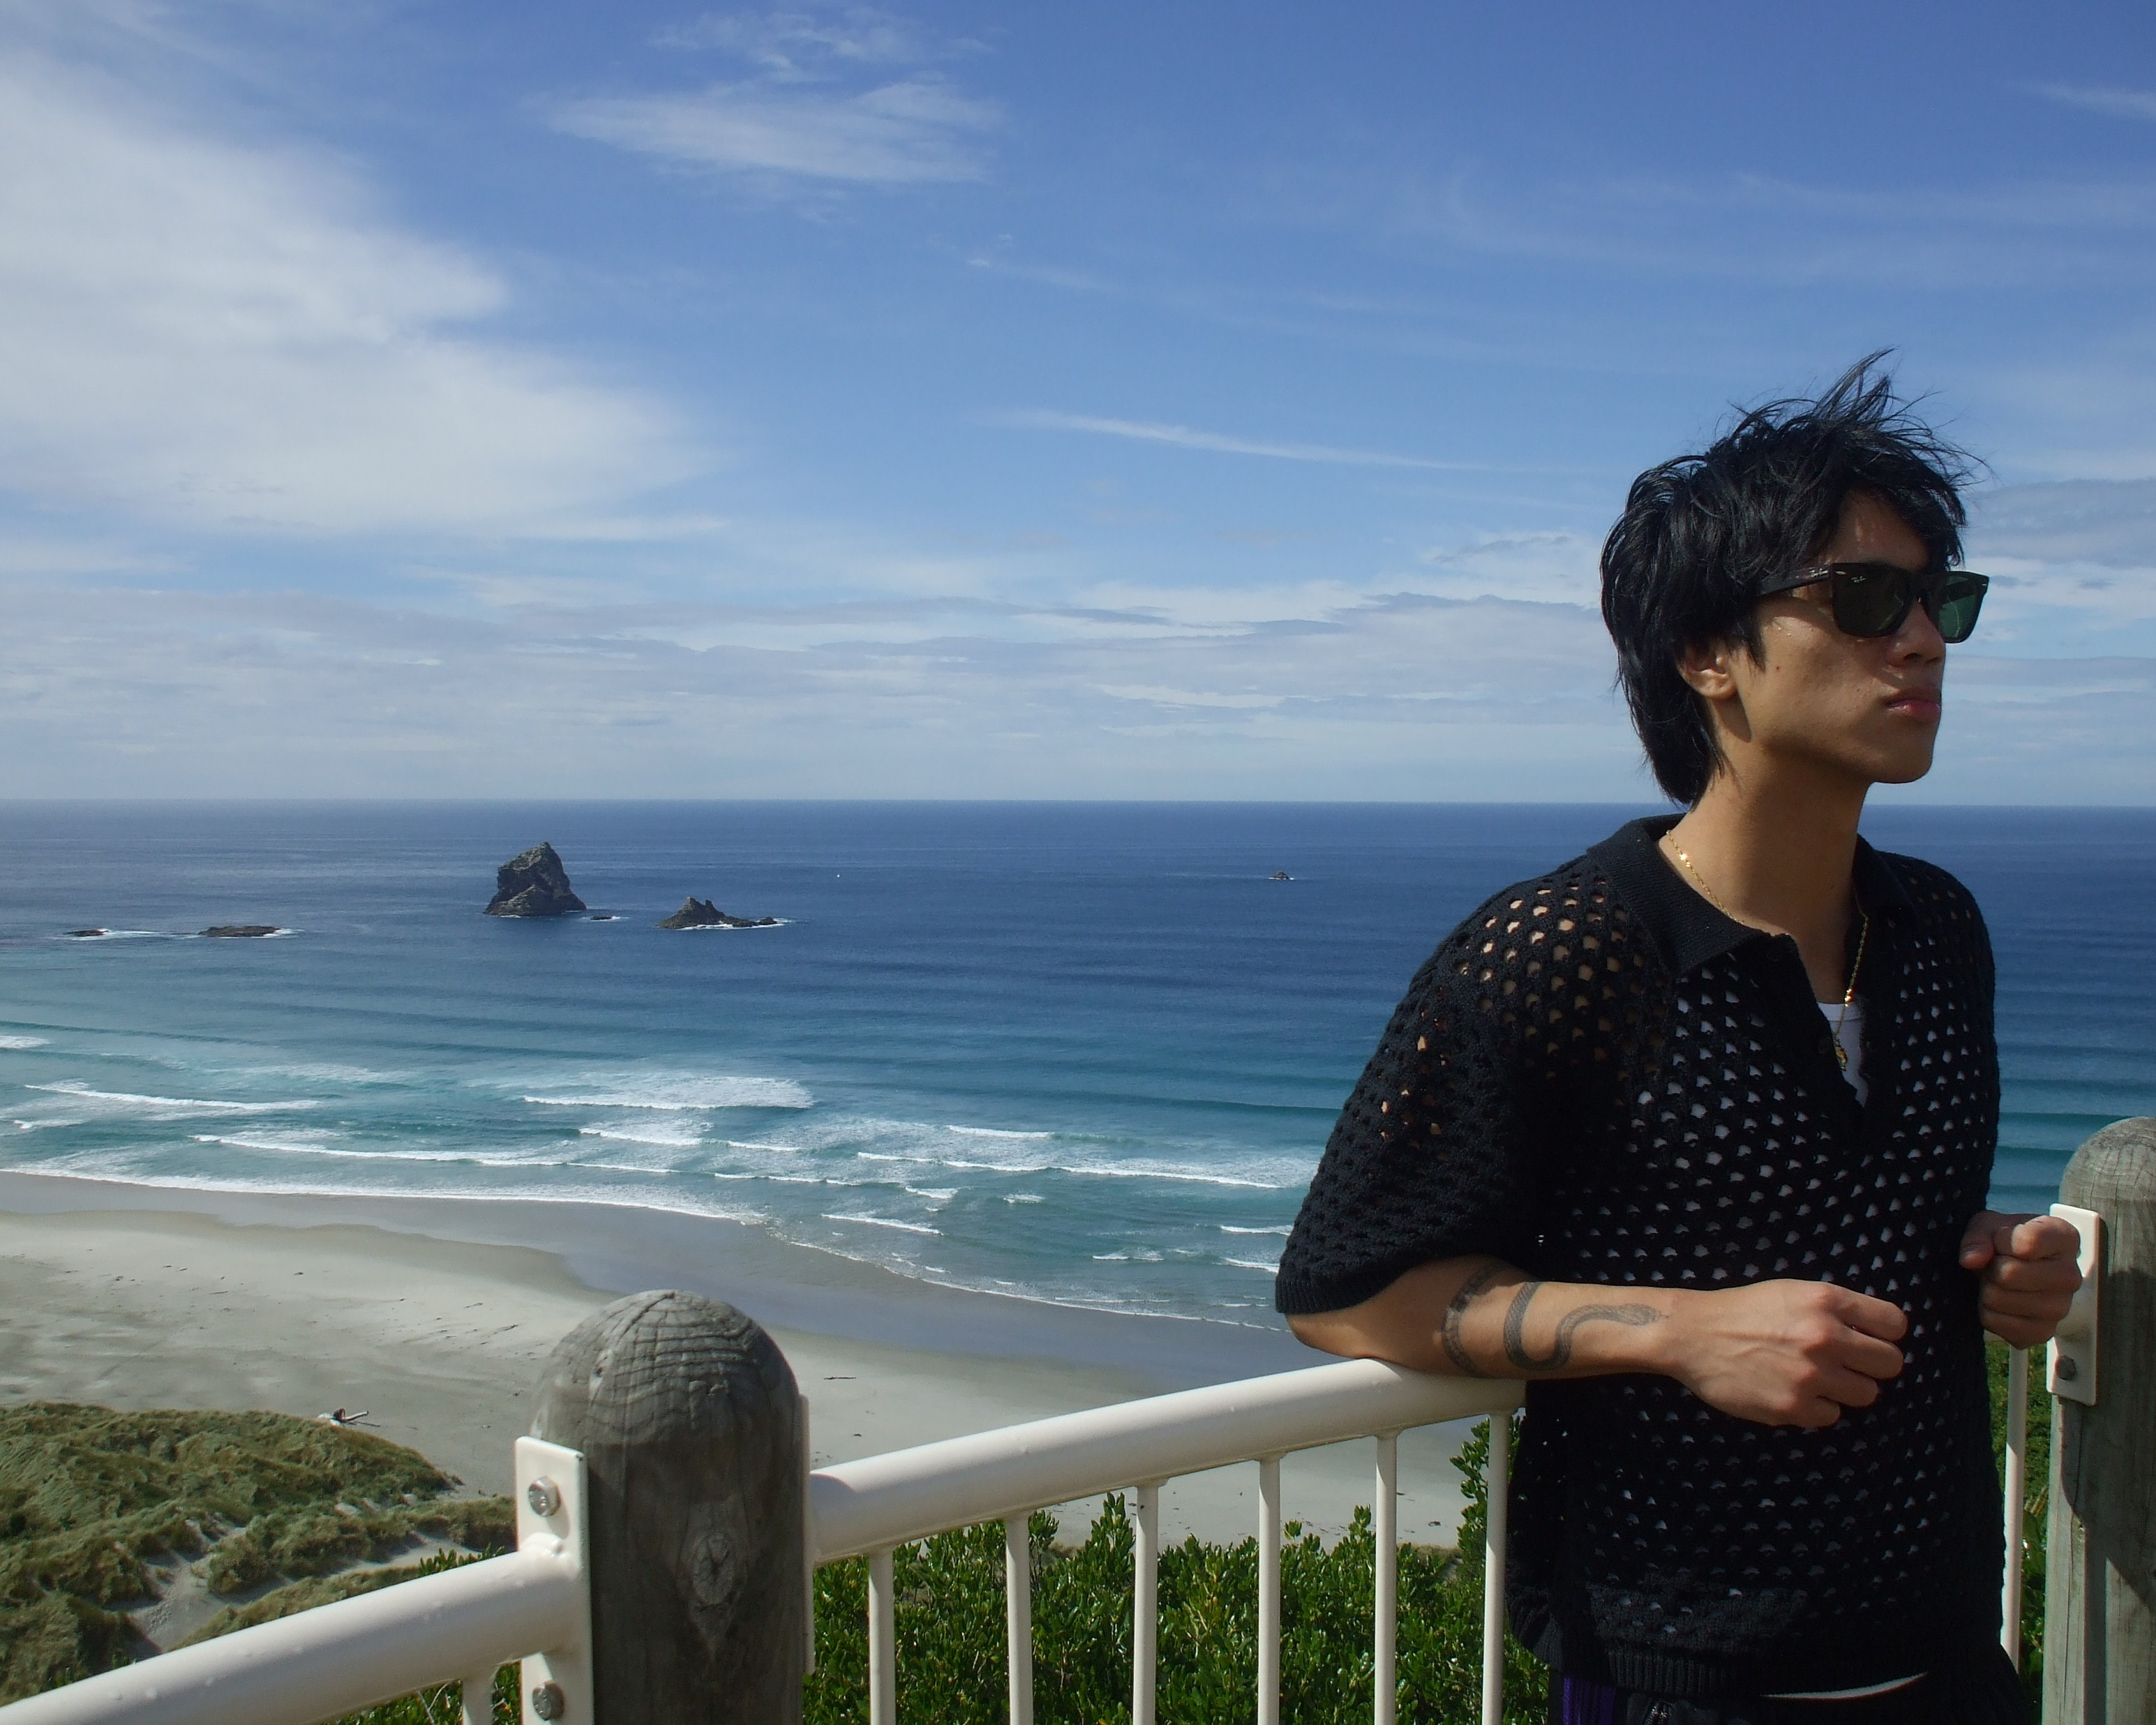
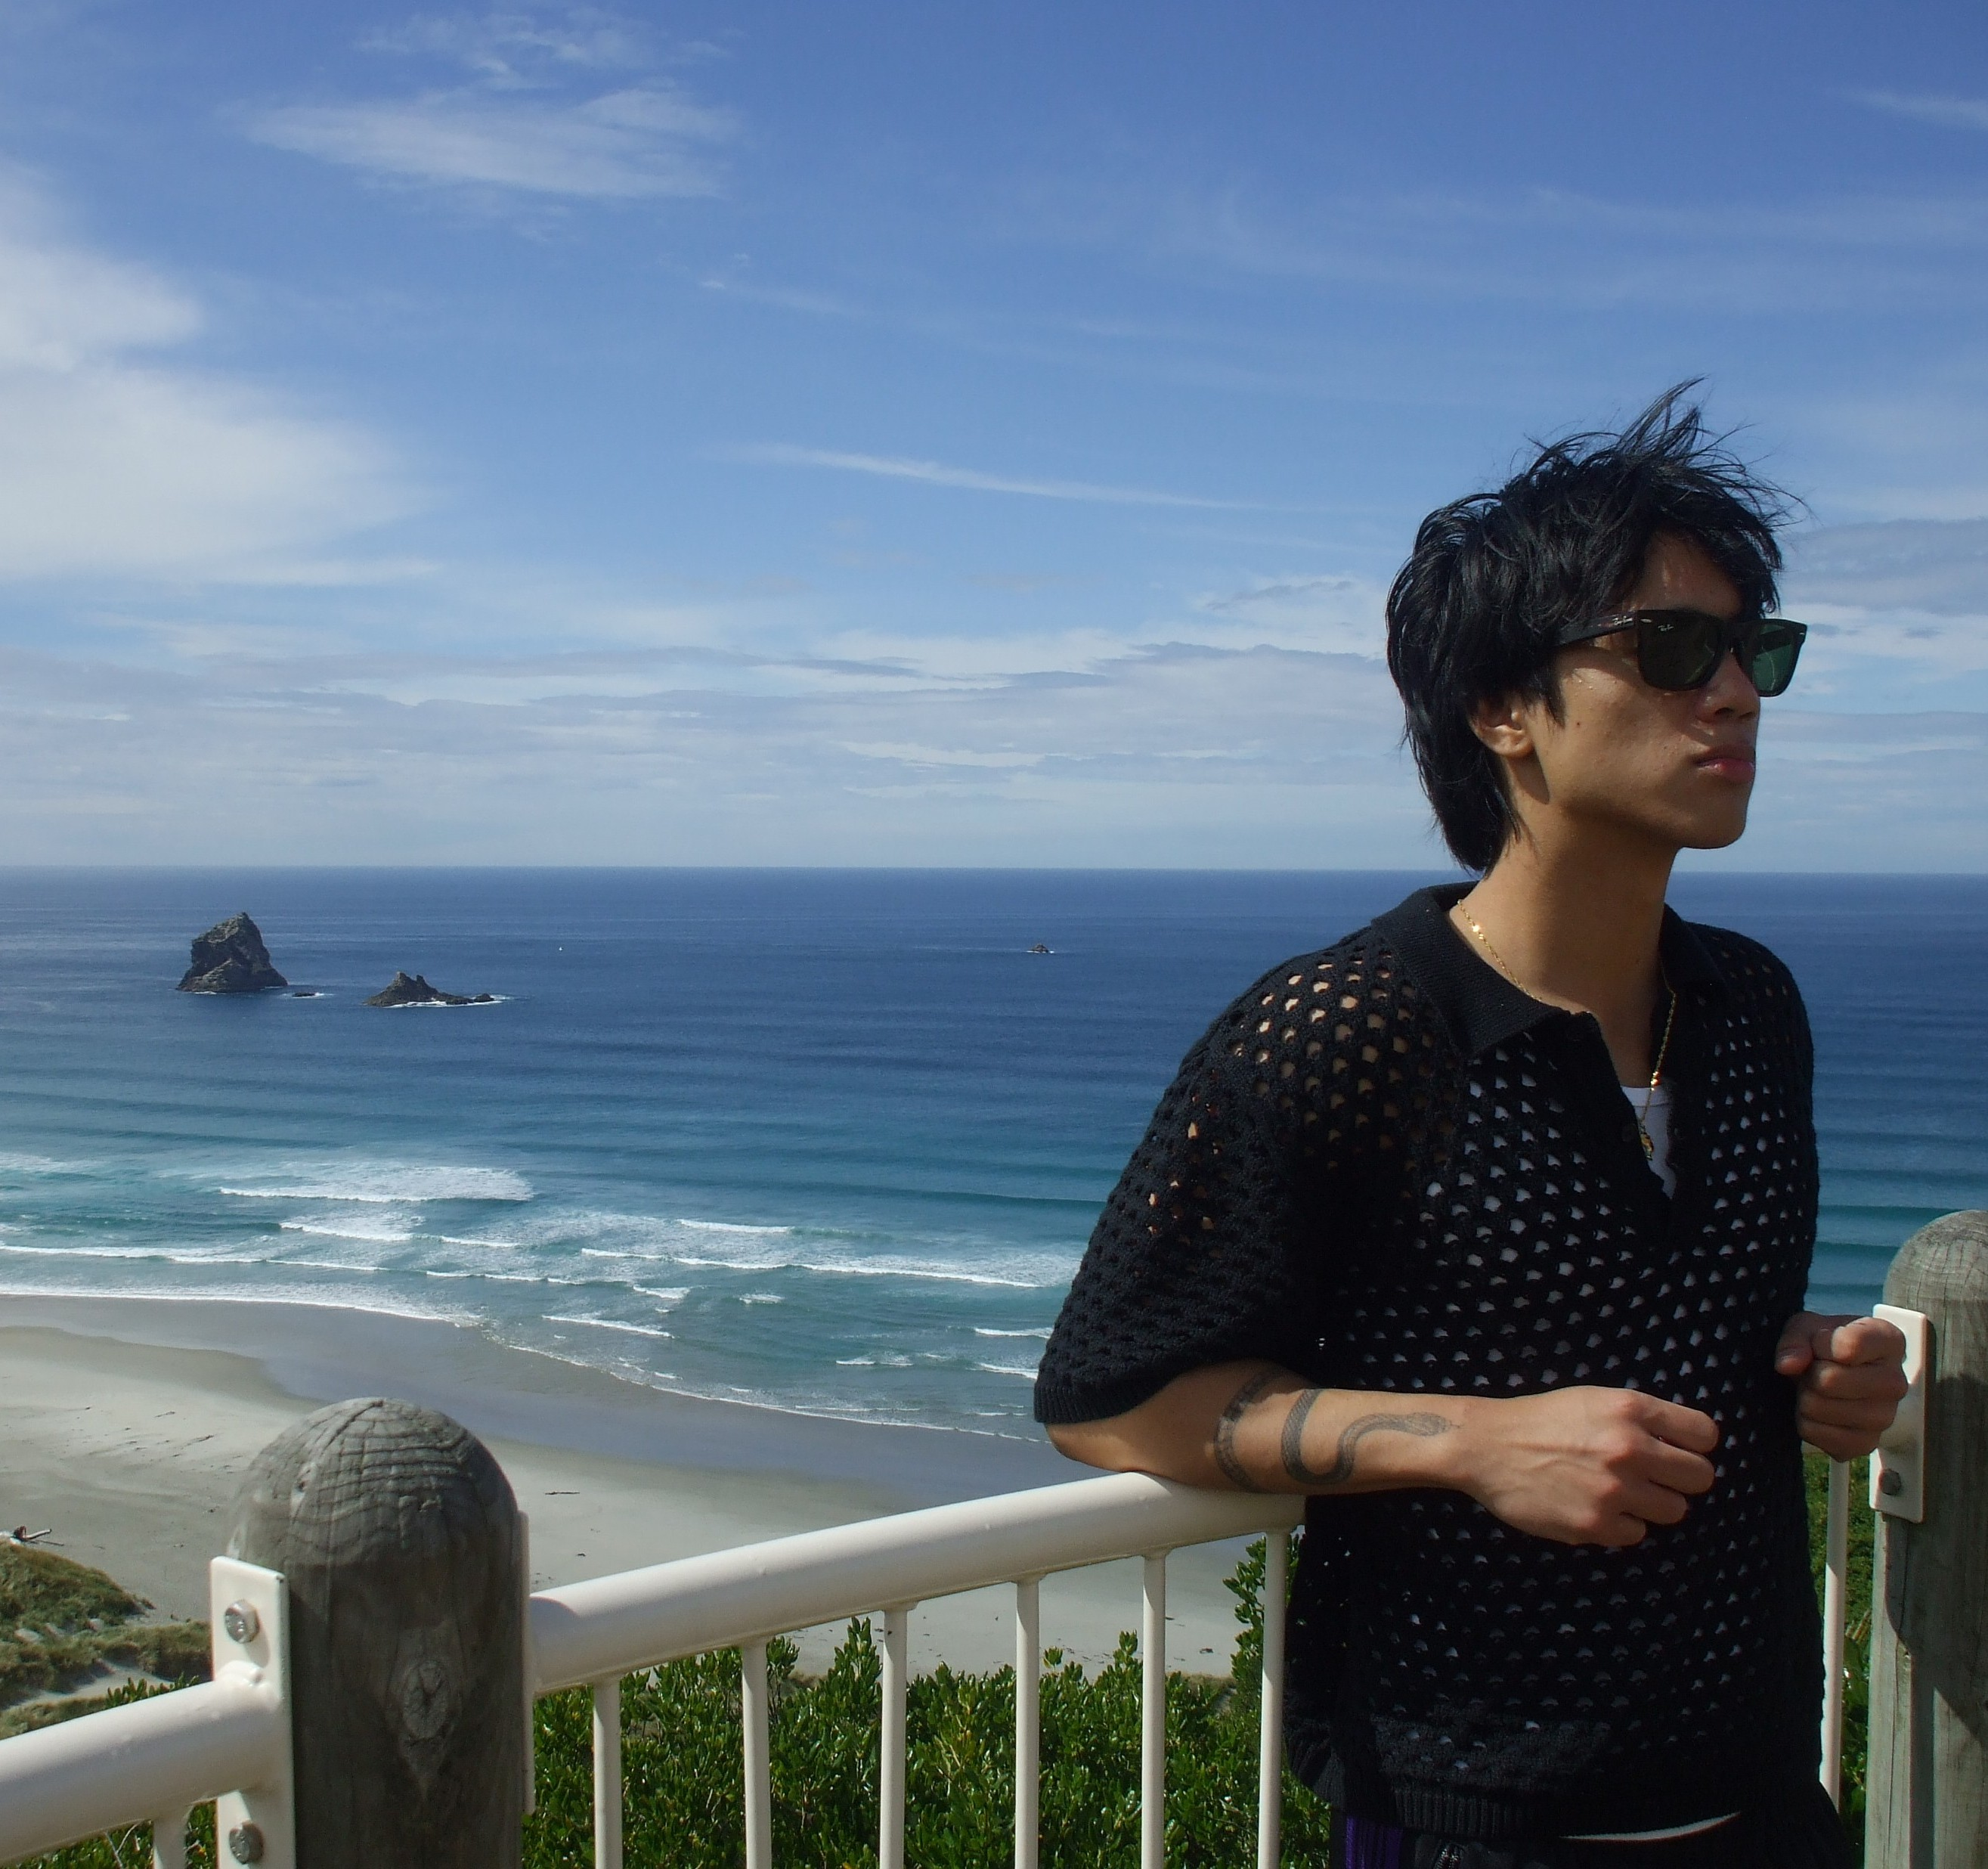
added portrait images in aboutme section

diff --git a/style.css b/style.css
@@ -2,6 +2,11 @@
     user-select: none;
 }
 
+html, body {
+  overflow: hidden;
+  height: 100%;
+}
+
 body {
     background-color: white;
     display: flex;
@@ -9,6 +14,7 @@ body {
     align-items: center; 
     height: 100vh;
     font-family: roboto, sans-serif;
+  
 }
 
 .card-container {
@@ -119,6 +125,7 @@ body {
     overflow: hidden; /* this is fine now, just clips border-radius */
     flex-direction: column;
     box-shadow: 0 24px 64px rgba(0,0,0,0.35);
+    flex-shrink: 0;
 }
 
 
@@ -169,7 +176,7 @@ body {
 }
 .about-row {
     display: flex;
-    align-items: center;
+    align-items: flex-start;
     gap: 16px;
 }
 
@@ -179,3 +186,82 @@ body {
     border-radius: 8px;
     object-fit: cover;
 }
+
+.images-container {
+  height: 300px;
+  width:300px;
+  border-radius: 5px;
+  box-shadow: 0 2px 10px rgba(0, 0, 0, 0.3);
+  transform: rotate(-90deg);
+  overflow: hidden;
+  scroll-behavior: smooth;
+  display: flex;
+  flex-direction: column;
+  backface-visibility: hidden;
+  transform: translateZ(0) rotate(-90deg); /* or rotate(90deg) for .section */
+}
+
+.section {
+  display: flex;
+  justify-content: center;
+  align-items: center;
+  transform: rotate(90deg);
+  width: 300px;
+  height: 300px;
+  flex-shrink: 0;
+  backface-visibility: hidden;
+transform: translateZ(0) rotate(90deg); 
+}
+.section:nth-child(1) {
+  background: url(images/portrait\ \(1\).JPG);
+  background-size: cover;
+  background-position: bottom;
+}
+
+.section:nth-child(2) {
+  background: url(images/portrait\ \(2\).JPG);
+  background-size: cover;
+  background-position: center;
+}
+
+.section:nth-child(3) {
+  background:url(images/portrait\ \(3\).JPG);
+  background-size: cover;
+  background-position: center;
+}
+.section:nth-child(4) {
+  background:url(images/portrait\ \(4\).jpeg);
+  background-size: cover;
+  background-position: center;
+}
+
+.image-carousel {
+    display: flex;
+    flex-direction: column;
+    align-items: center;
+    gap: 12px;
+}
+
+nav {
+    display: flex;
+    flex-direction: row;
+    gap: 8px;
+    padding: 0;
+    margin: 0;
+    background: none;
+}
+
+nav a {
+    width: 8px;
+    height: 8px;
+    padding: 0;
+    margin: 0;
+    border-radius: 50%;
+    background: #bbb;
+    display: block;
+}
+
+nav a.active {
+    background: #555;
+}
+

diff --git a/script.js b/script.js
@@ -69,3 +69,21 @@ document.addEventListener('mouseup', () => {
     isDragging = false
     draggedModal = null
 })
+
+
+// test area below
+
+const btns = document.querySelectorAll('a');
+
+btns.forEach(function(btn) {
+  btn.addEventListener('click', function() {
+    removeActiveClass();
+    btn.classList.add('active');
+  })
+})
+
+function removeActiveClass() {
+  btns.forEach(function(btn) {
+    btn.classList.remove('active');
+  })
+}

diff --git a/index.html b/index.html
@@ -41,12 +41,23 @@
                     I like building things that look good and work well.
                     </p>
                 </div>
-                <div class="images">
-                    <img src="images/portrait (1).JPG">
+                <div class="image-carousel">
+                    <div class="images-container">
+                        <div id="image-1" class="section"></div>
+                        <div id="image-2" class="section"></div>
+                        <div id="image-3" class="section"></div>
+                        <div id="image-4" class="section"></div>
+                    </div>
+                    <nav>
+                        <a href="#image-1" class="active"></a>
+                        <a href="#image-2"></a>
+                        <a href="#image-3"></a>
+                        <a href="#image-4"></a>
+                    </nav>
                 </div>
+
             </div>
         </div>
-
     </div>
     
 